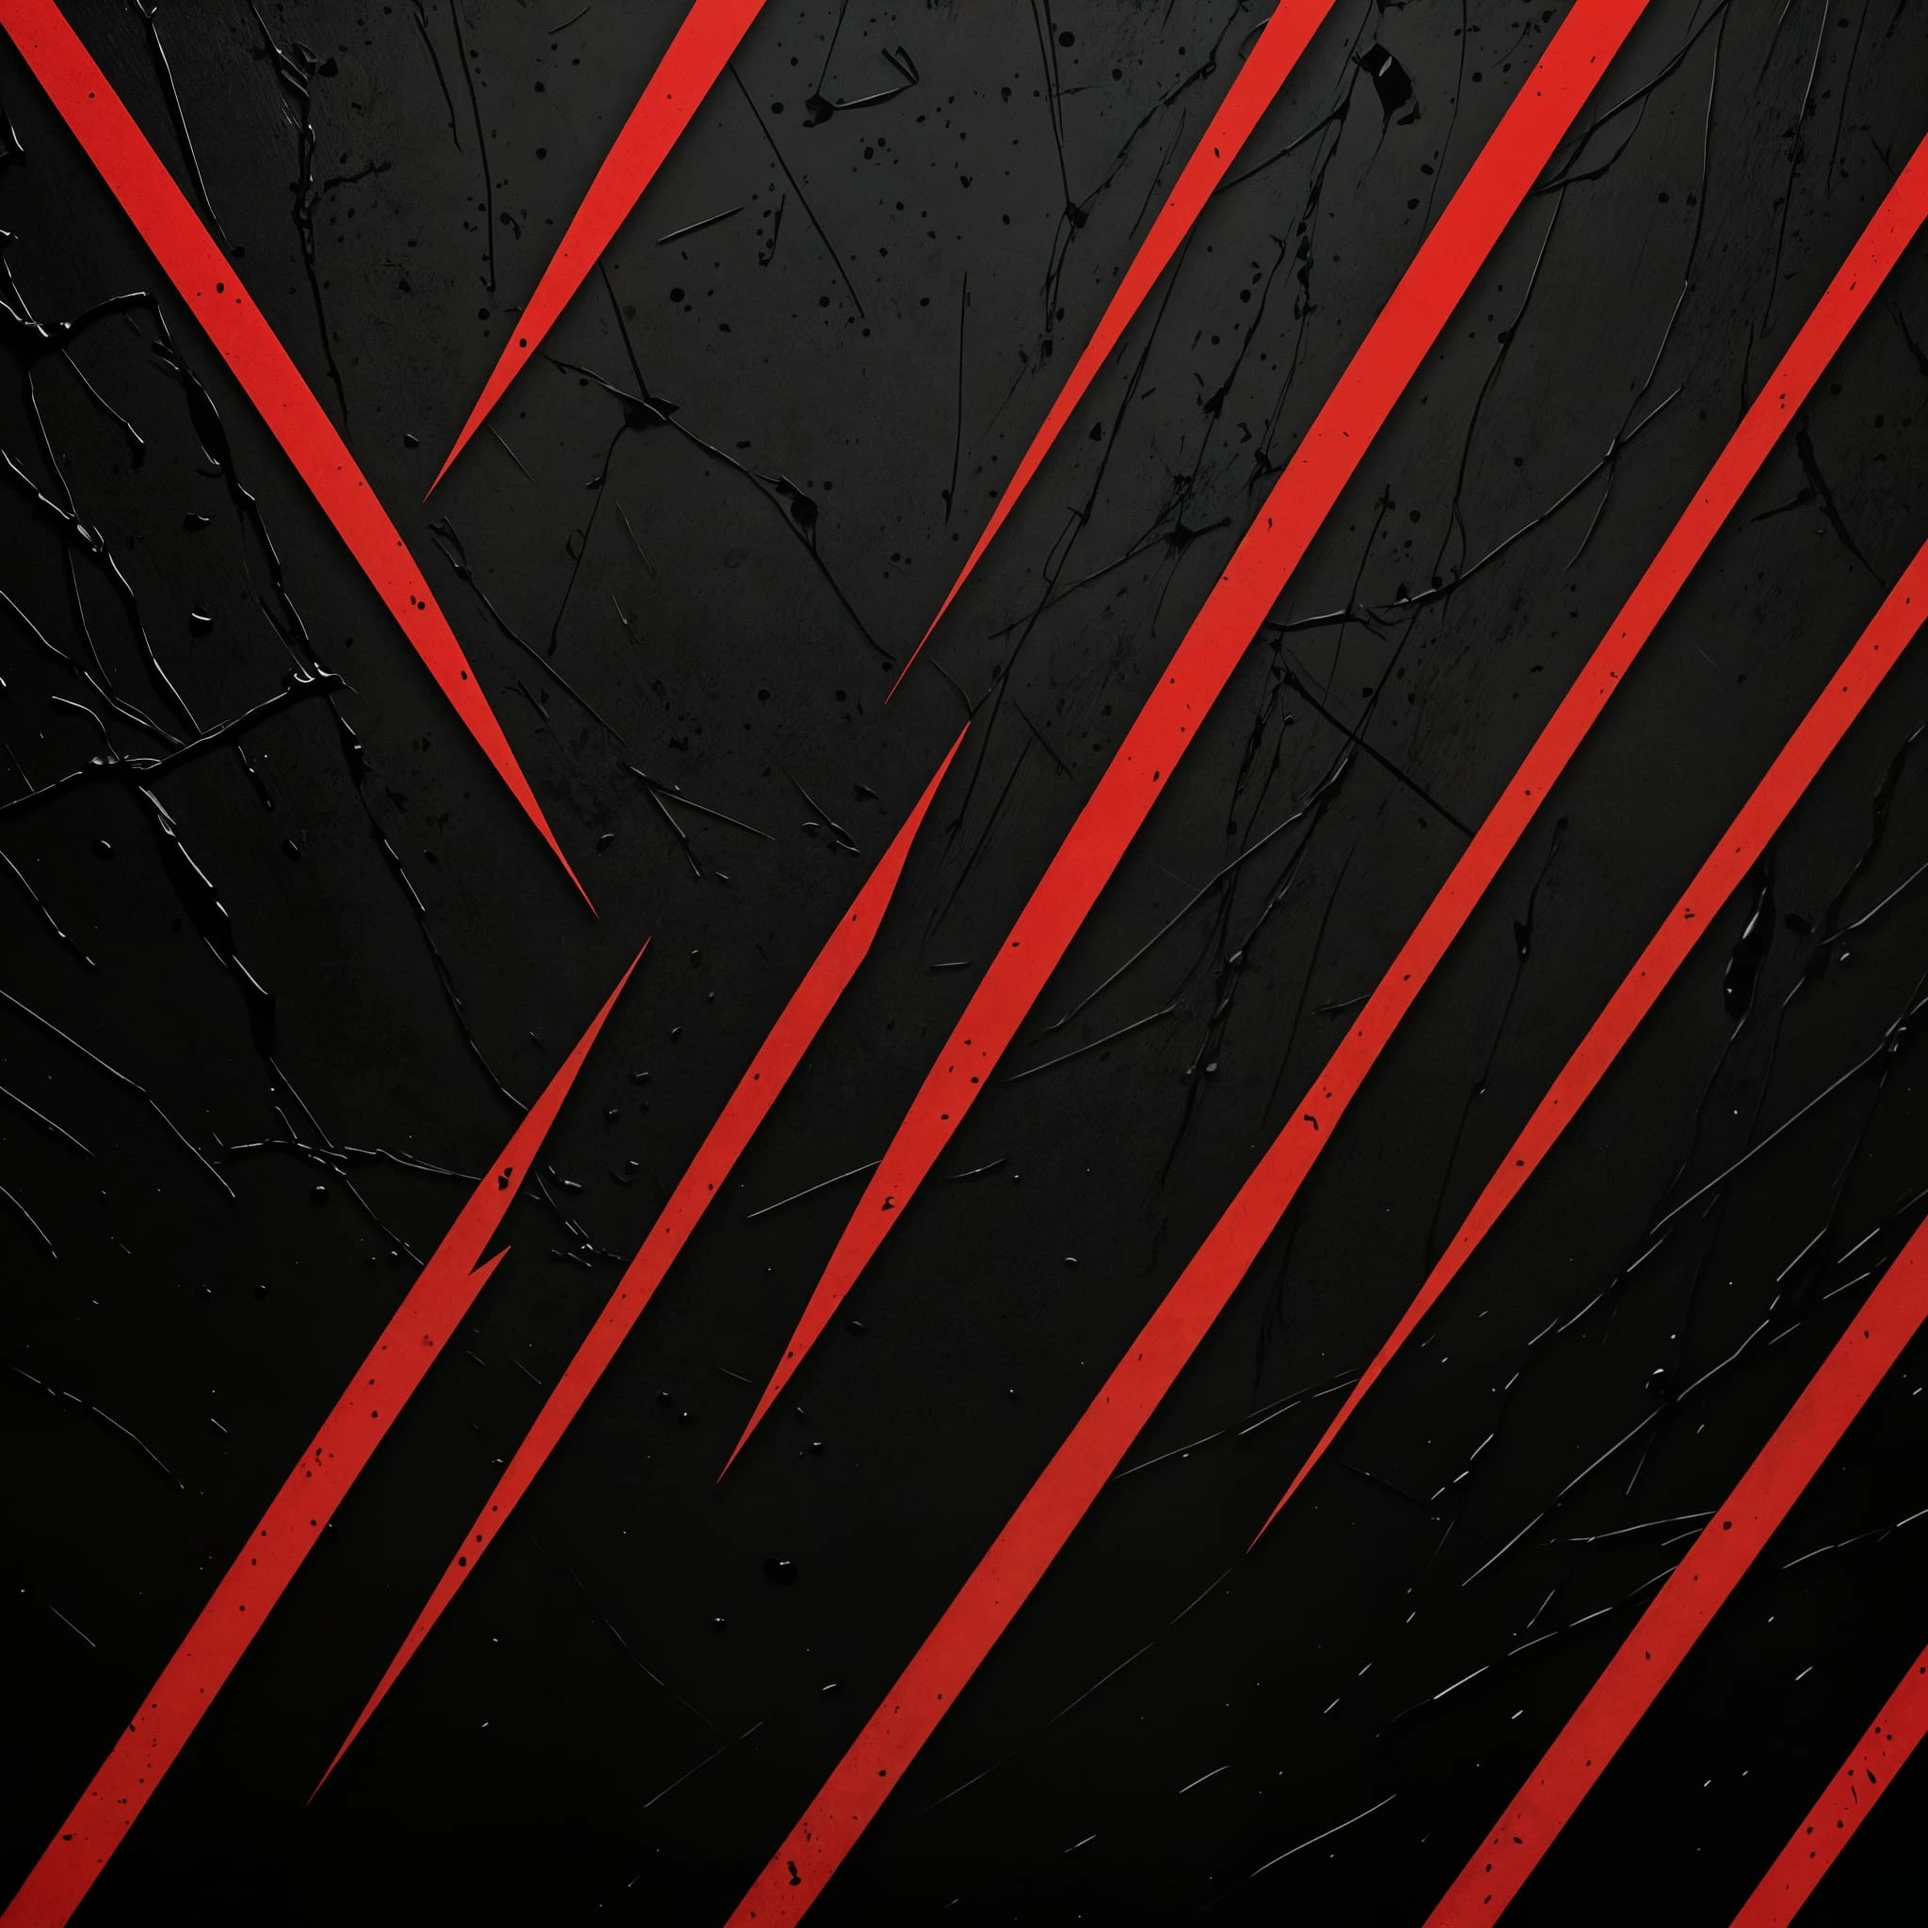
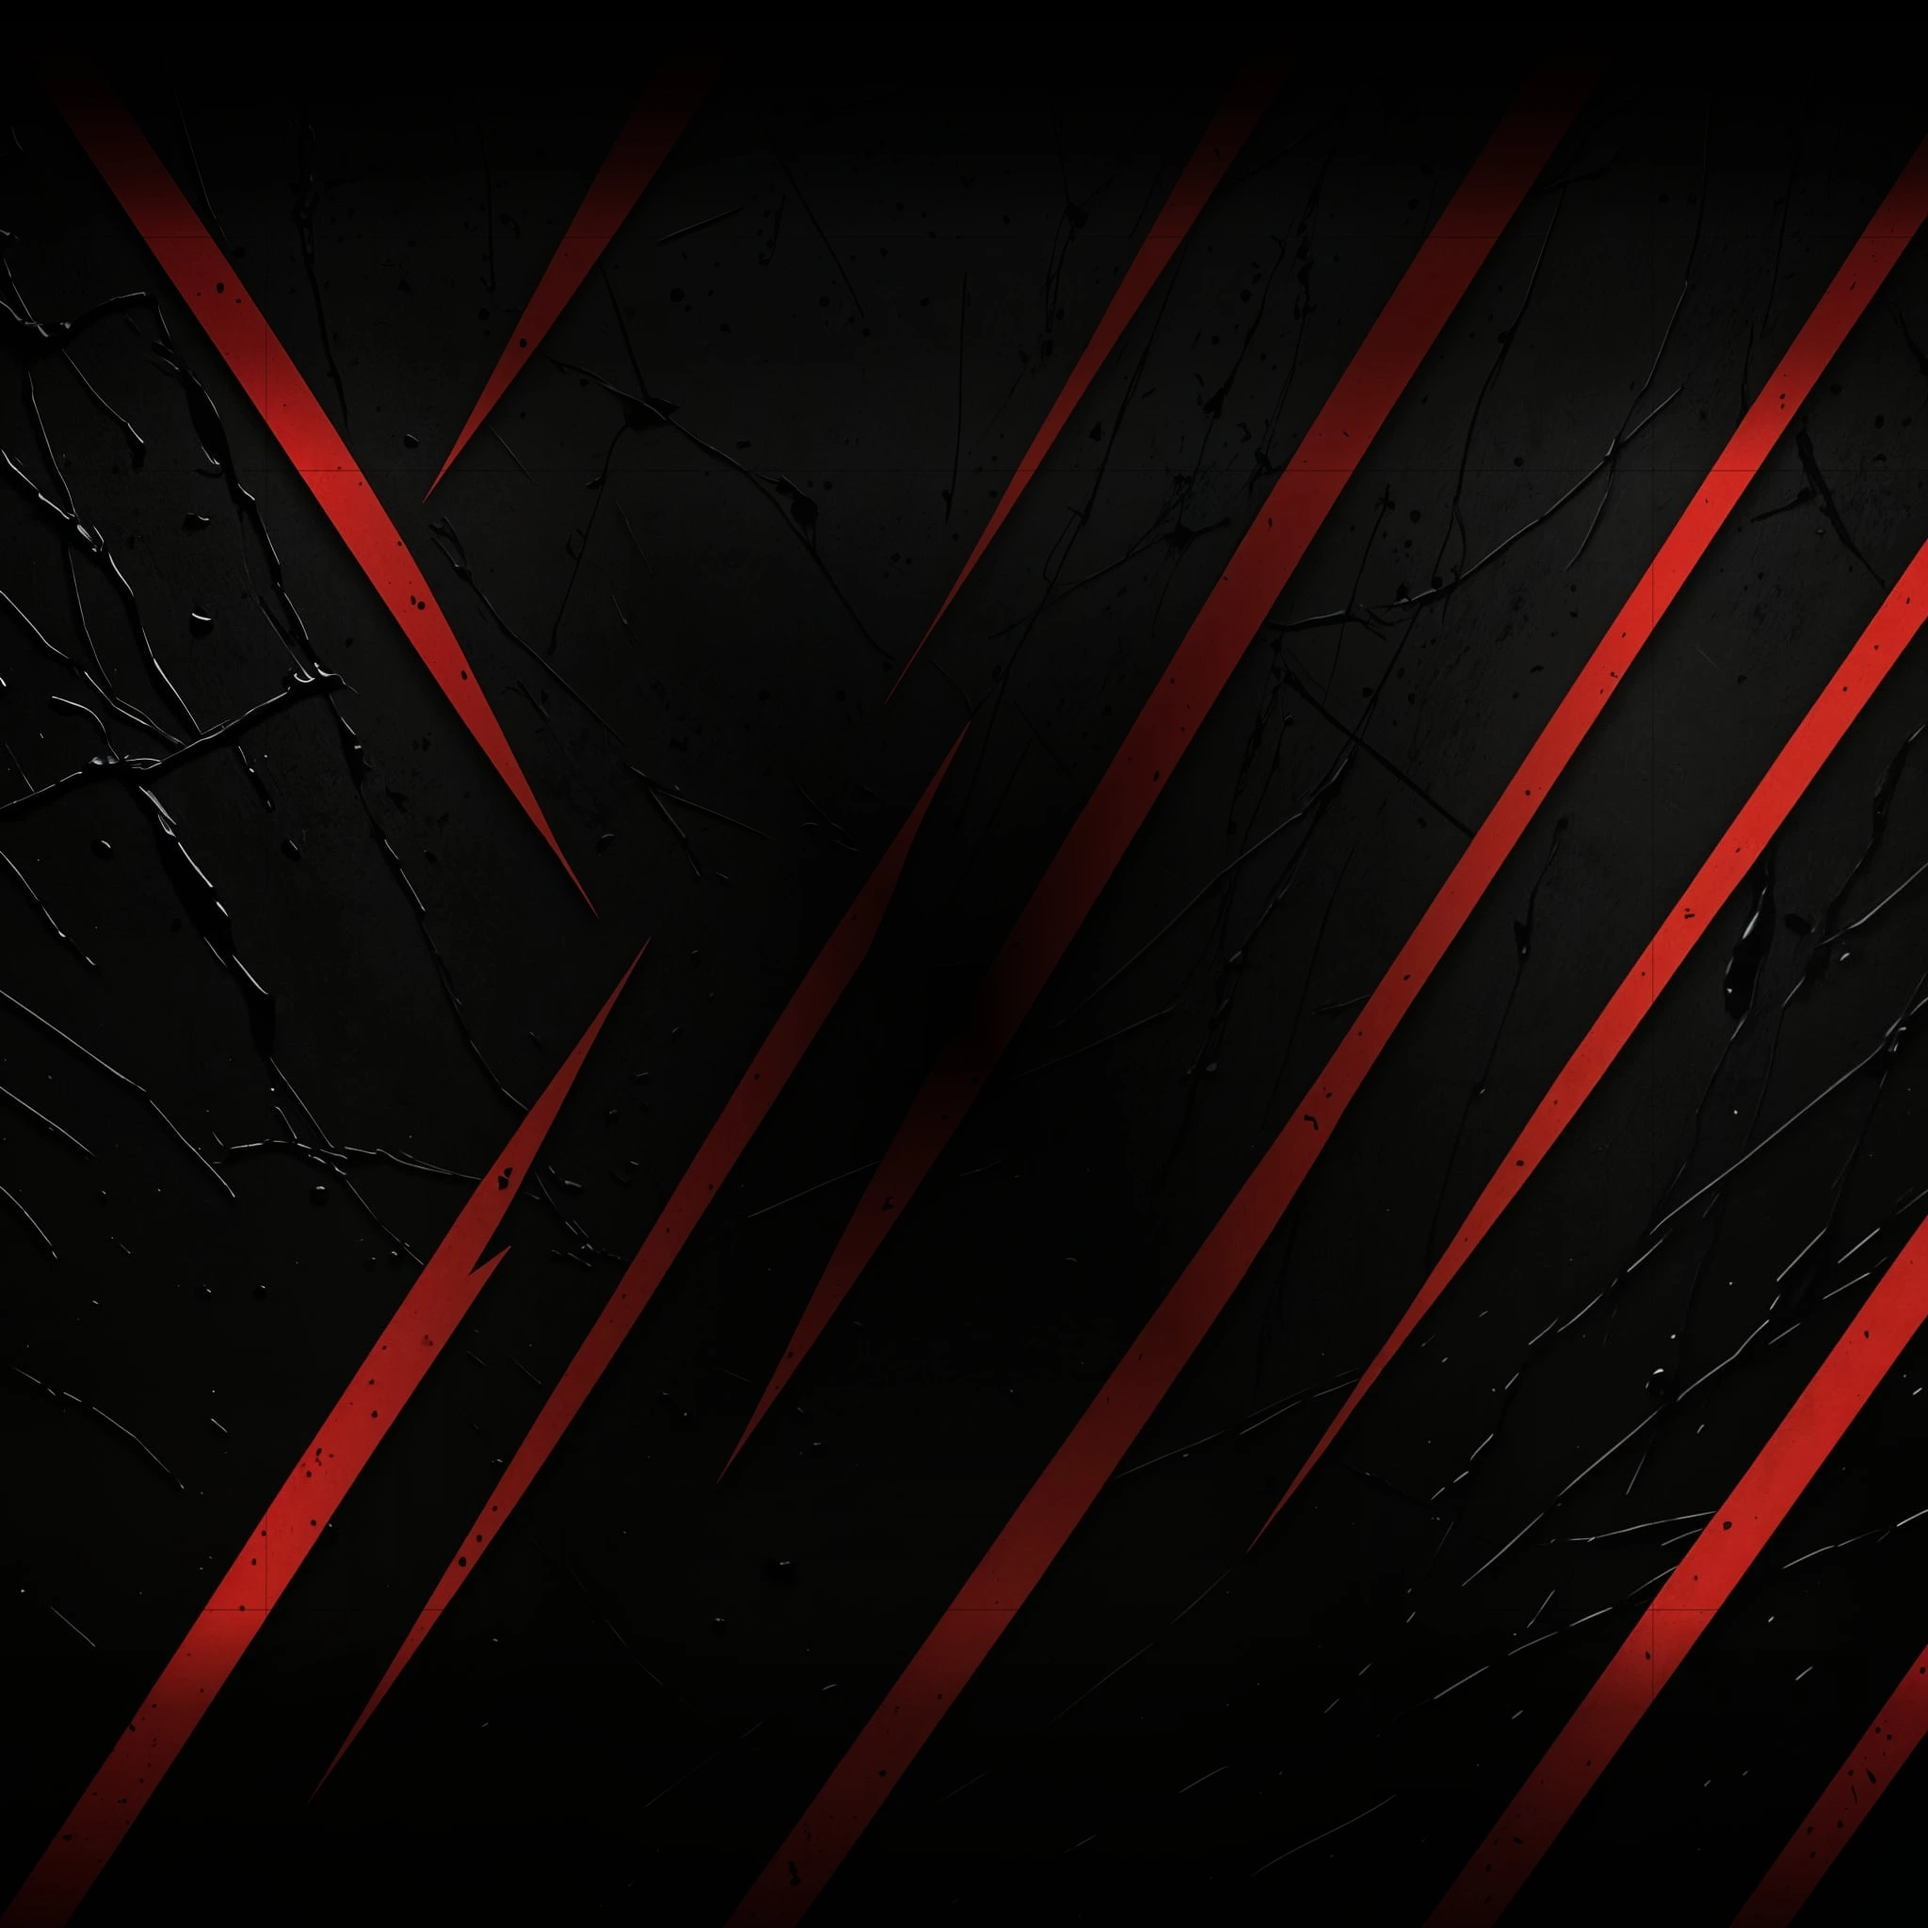
Graphics tweak to red & black background for better contrast

diff --git a/assets/style.css b/assets/style.css
@@ -353,22 +353,6 @@ main {
   color: #000;
 }
 
-#where {
-  position: absolute;
-  bottom: 80px;
-  left: 10%;
-  text-align: center;
-}
-
-#scorrier-map {
-  height: 100px;
-  width: 250px;
-}
-
-#map-us {
-  text-align: center;
-}
-
 /* Sponsor section */
 
 #sponsors {
